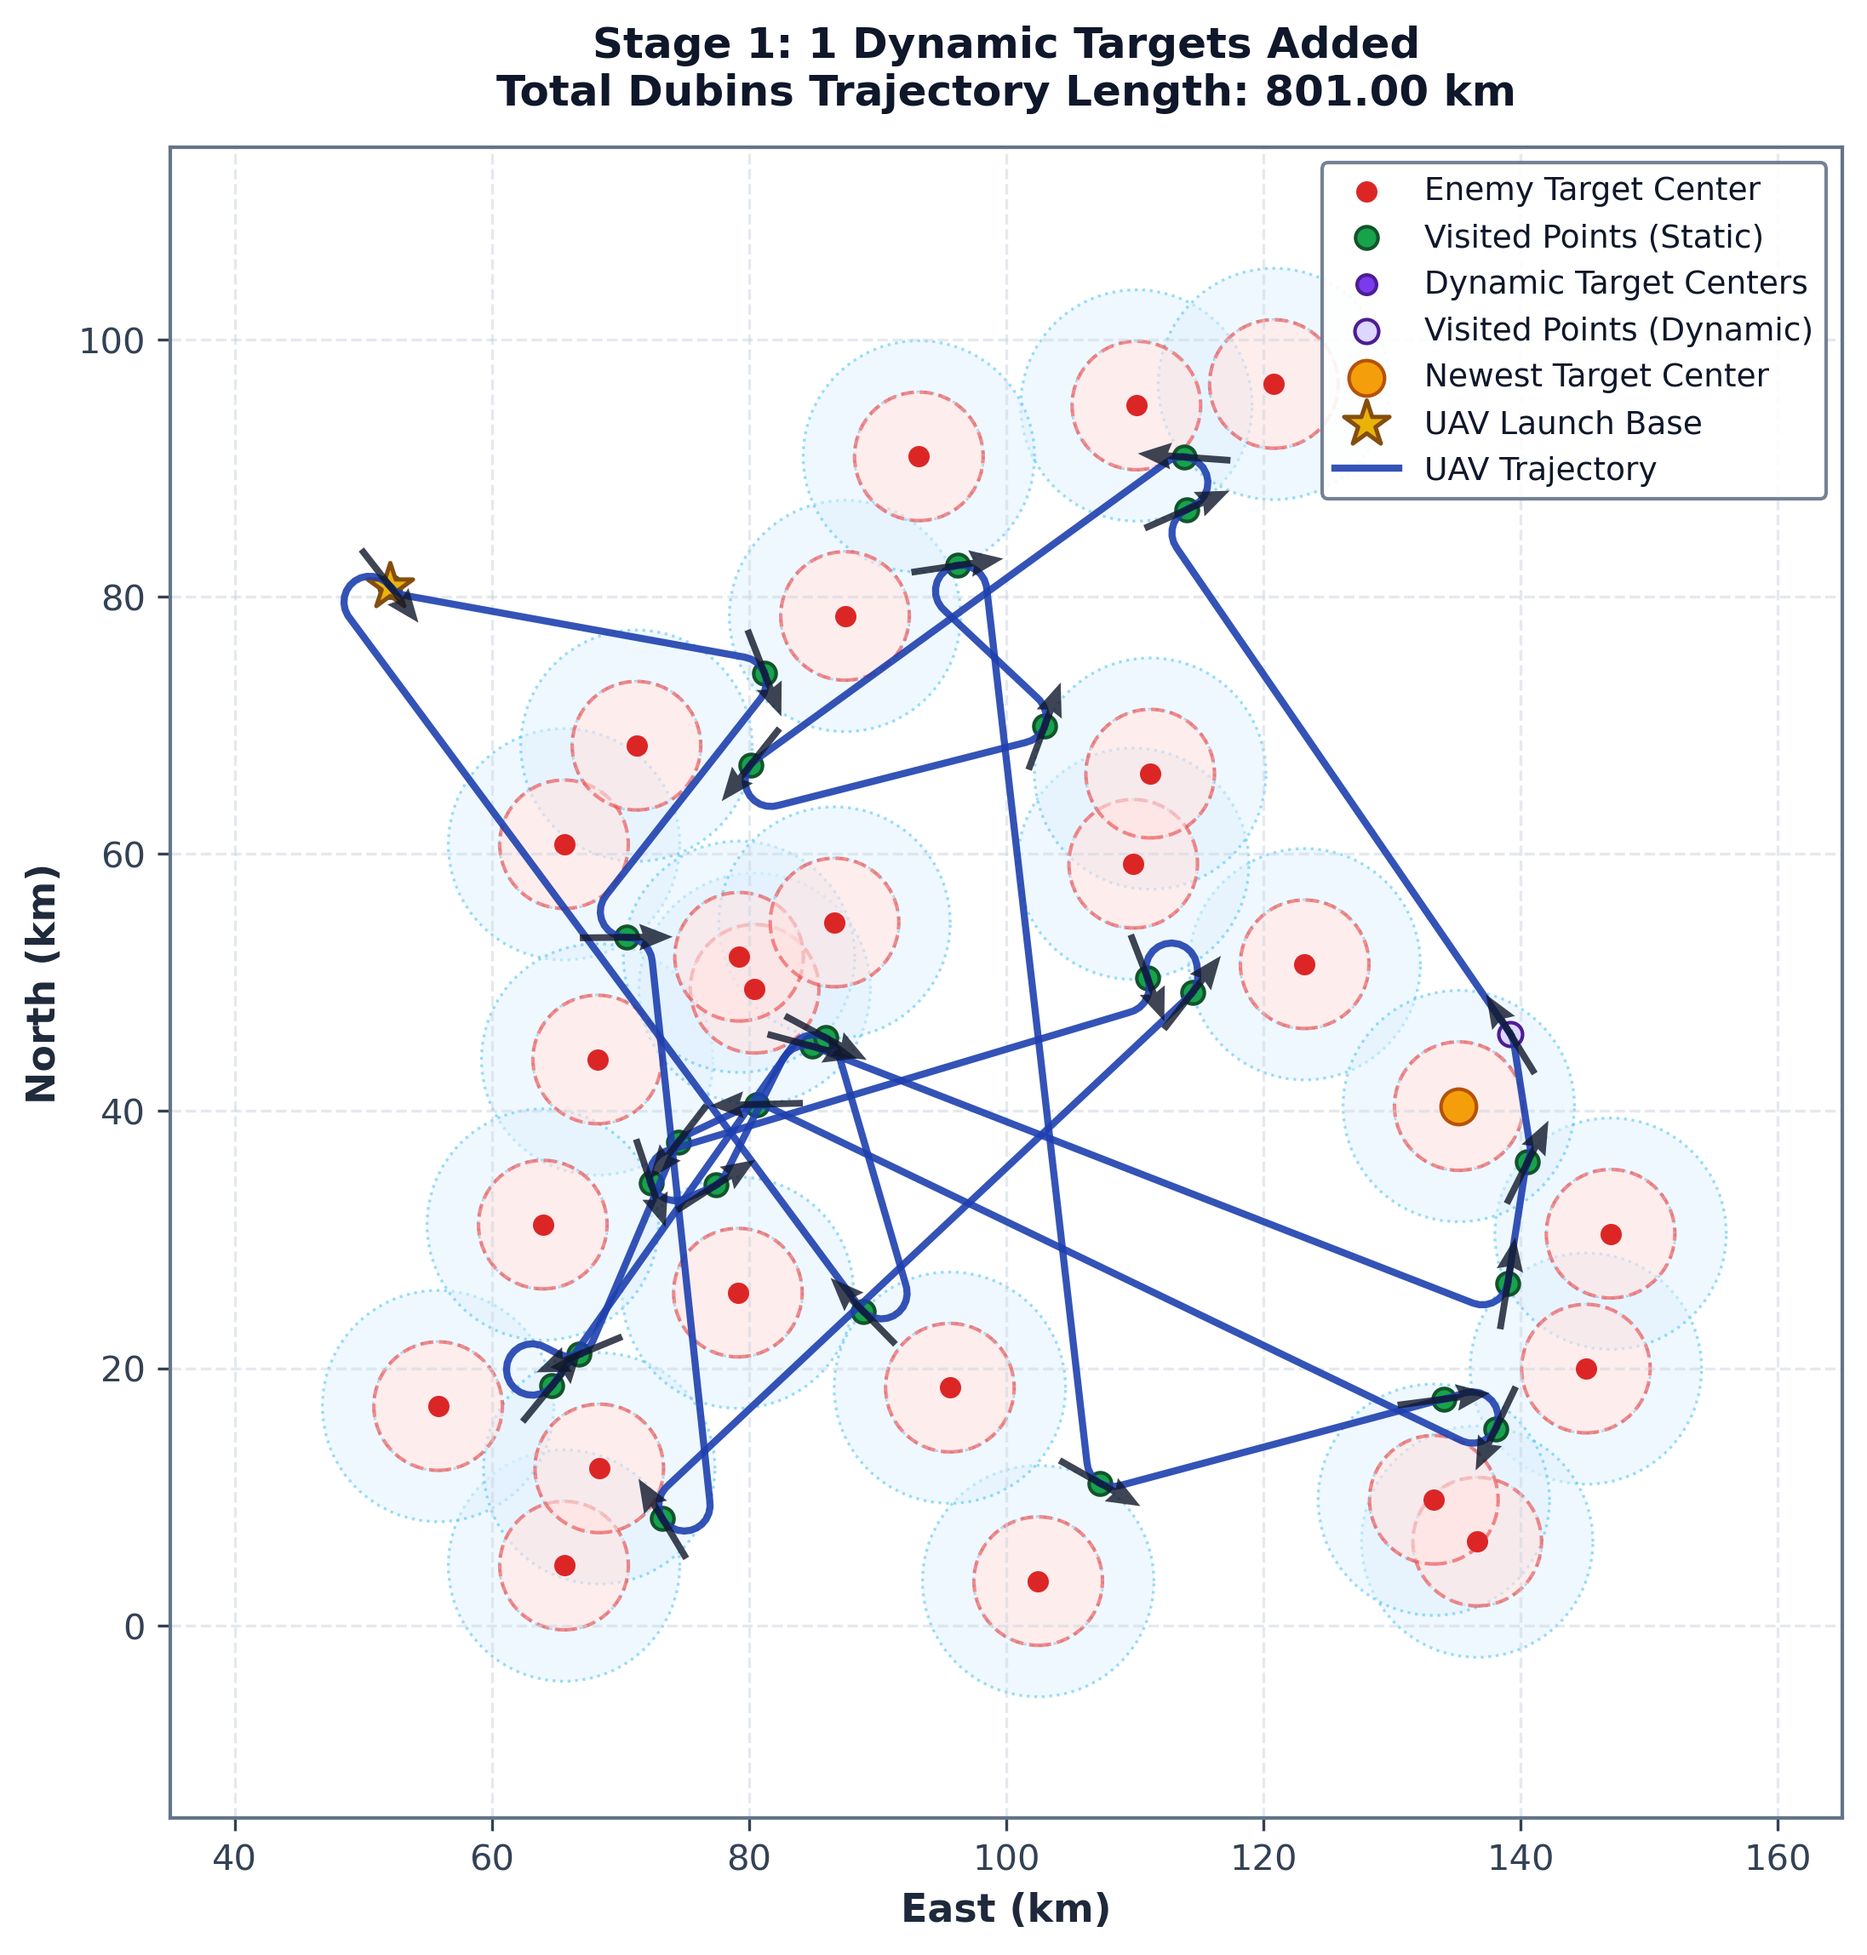
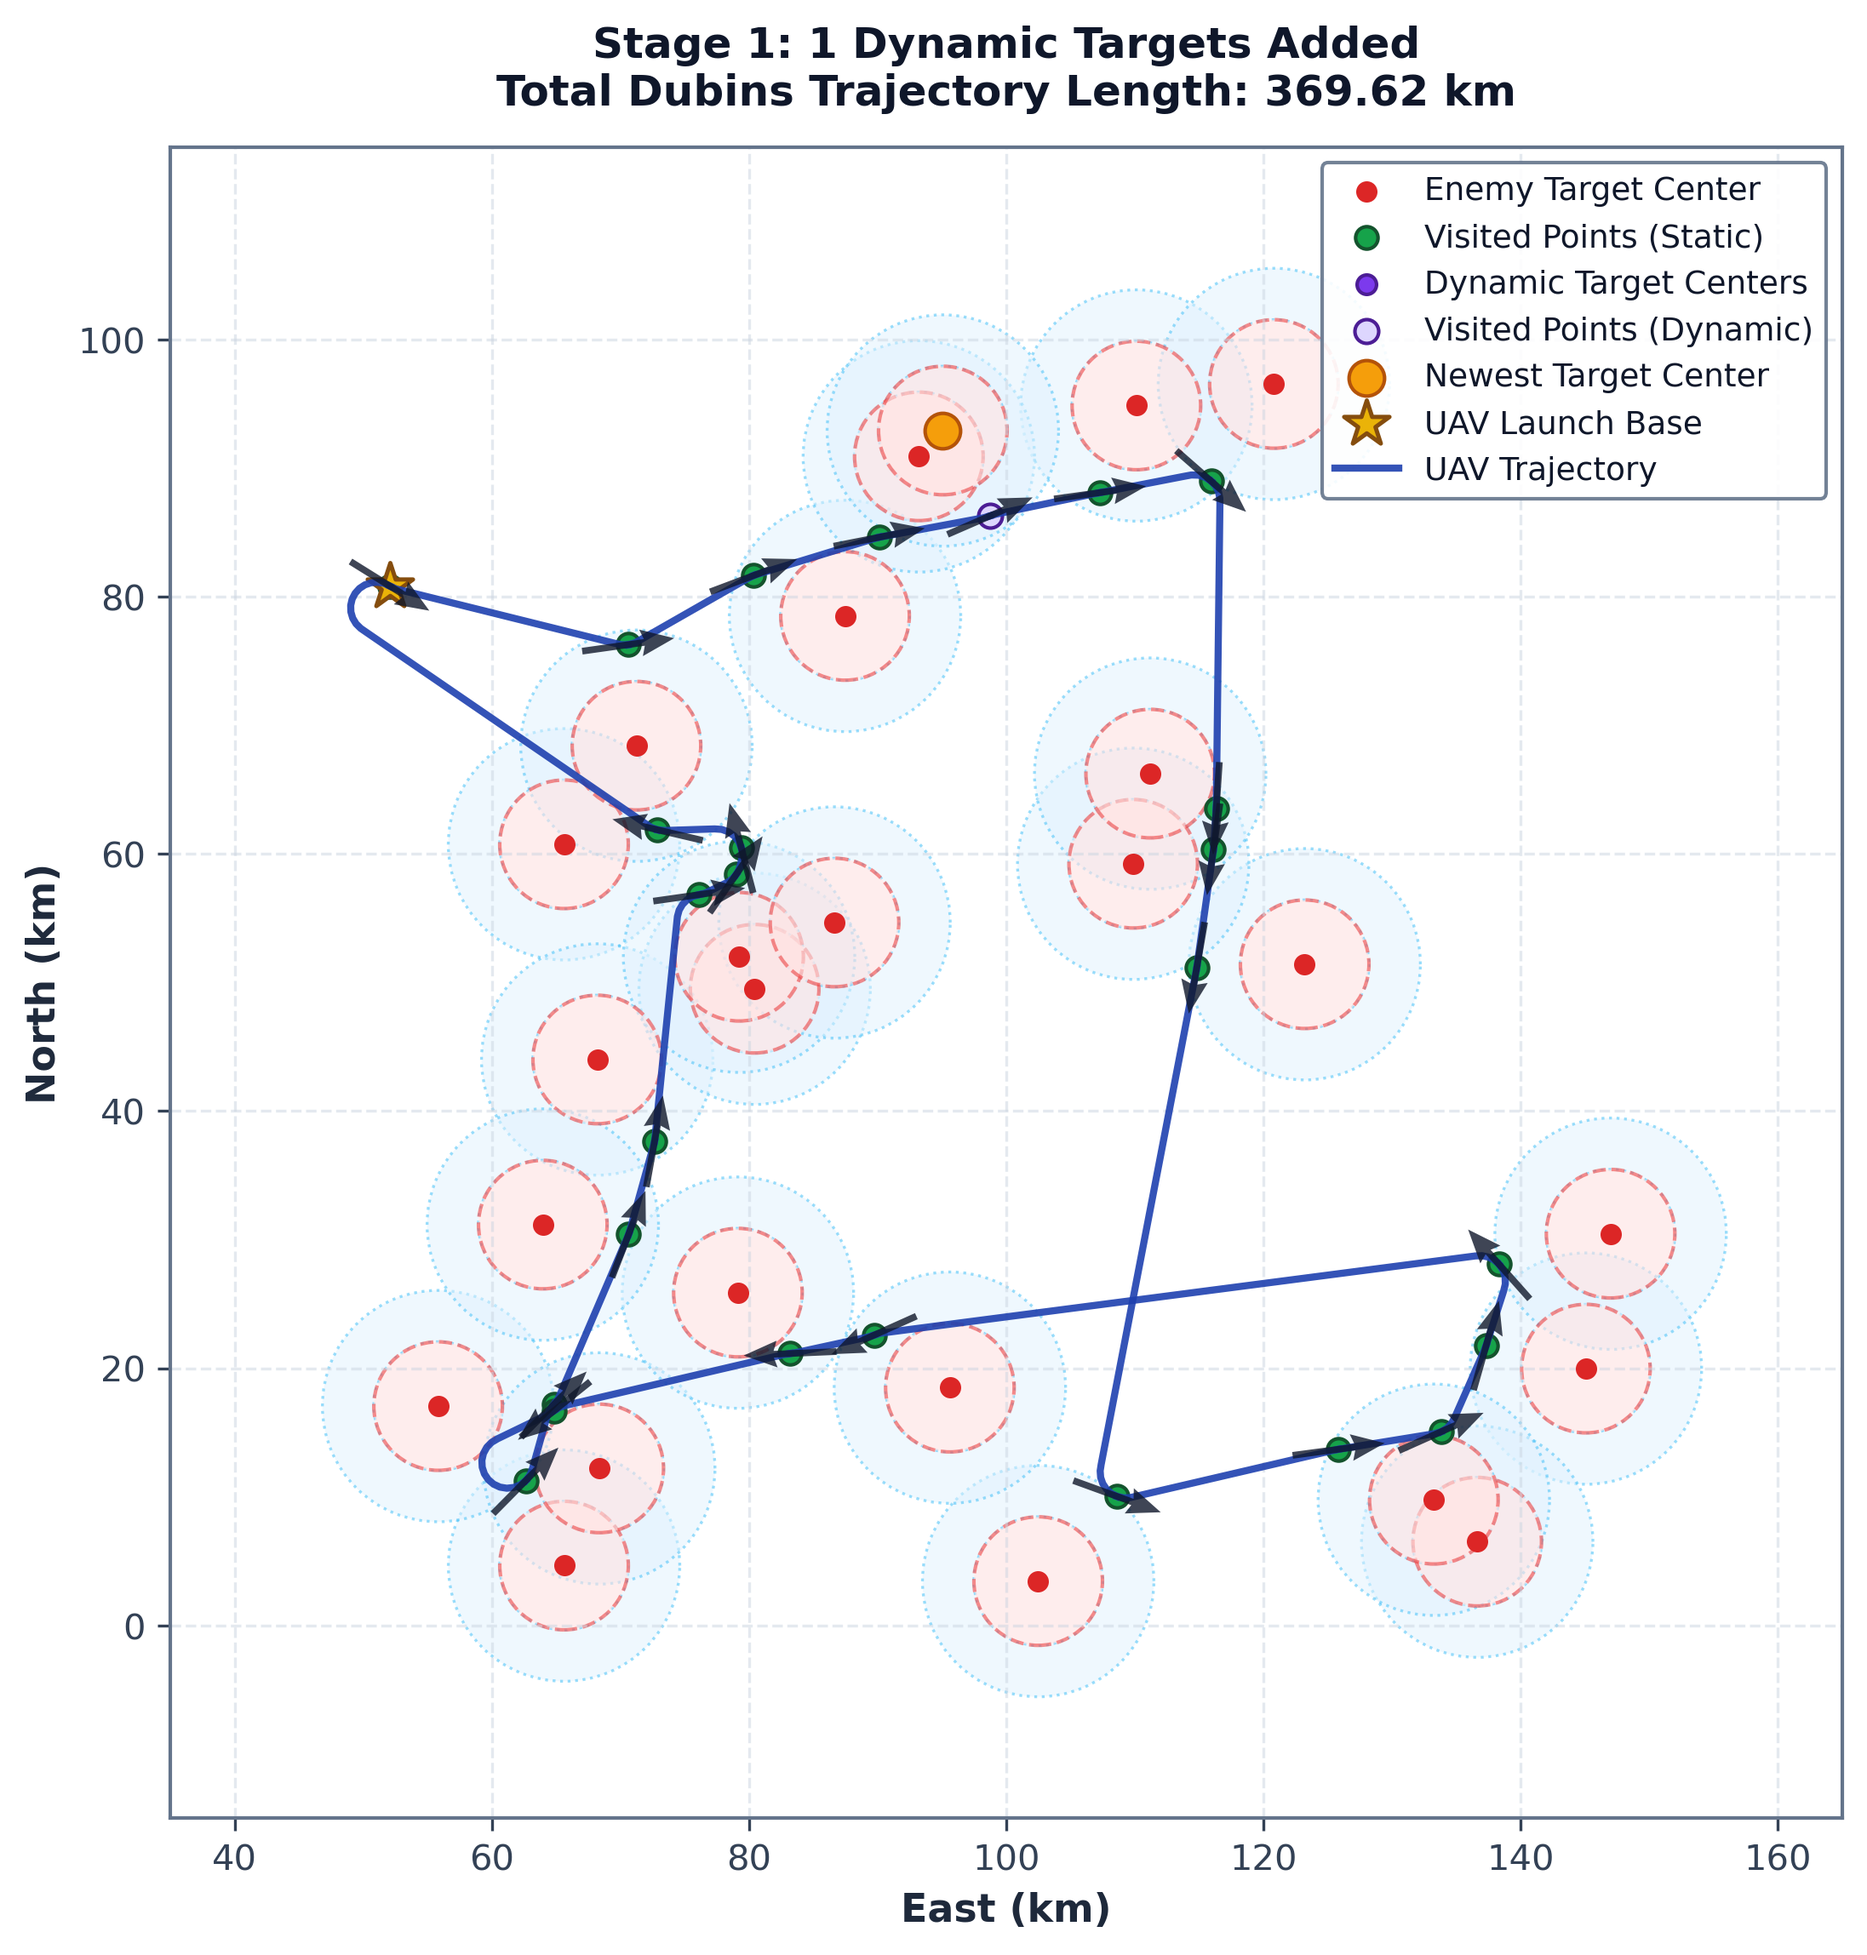
Feat: Add Euclidean NN + 2-opt initialization, reducing flight length from 910km to 343km

diff --git a/dtsp_uav/main_tspn.py b/dtsp_uav/main_tspn.py
@@ -7,6 +7,37 @@ from core.routing import Route
 from algorithms.simulated_annealing_tspn import SimulatedAnnealingTSPN
 from simulation.animator_tspn import AnimatorTSPN
 
+def build_initial_euclidean_tour(centers, start_idx):
+    """使用貪婪最近鄰 (Nearest Neighbor) + 2-opt 構建無自交的歐氏初始閉環"""
+    unvisited = set(range(len(centers)))
+    unvisited.remove(start_idx)
+    tour = [start_idx]
+    curr = start_idx
+    while unvisited:
+        next_node = min(unvisited, key=lambda idx: np.linalg.norm(centers[curr] - centers[idx]))
+        tour.append(next_node)
+        unvisited.remove(next_node)
+        curr = next_node
+    
+    # 執行快速 2-opt 解開歐氏交叉線
+    improved = True
+    n = len(tour)
+    while improved:
+        improved = False
+        for i in range(1, n - 1):
+            for j in range(i + 1, n):
+                a, b = tour[i - 1], tour[i]
+                c, d = tour[j], tour[(j + 1) % n]
+                d0 = np.linalg.norm(centers[a] - centers[b]) + np.linalg.norm(centers[c] - centers[d])
+                d1 = np.linalg.norm(centers[a] - centers[c]) + np.linalg.norm(centers[b] - centers[d])
+                if d1 < d0 - 1e-4:
+                    tour[i:j + 1] = tour[i:j + 1][::-1]
+                    improved = True
+                    break
+            if improved:
+                break
+    return tour
+
 def insert_new_center(route_indices, new_center_idx, centers):
     """
     使用最便宜插入啟發式 (Cheapest Insertion) 將新敵艦中心插入到現有路徑中。
@@ -64,10 +95,8 @@ def main():
     start_node_idx = env.get_start_node_index()
     print(f"UAV 起飛基地索引: {start_node_idx}，位置: {centers[start_node_idx]}")
 
-    # 建立初始閉環順序
-    initial_indices = list(range(len(centers)))
-    initial_indices.remove(start_node_idx)
-    route_indices = [start_node_idx] + initial_indices
+    # 建立高品質初始歐氏閉環順序 (消除初始交叉)
+    route_indices = build_initial_euclidean_tour(centers, start_node_idx)
     route = Route(route_indices)
 
     # 2. 初始路徑優化 (DTSPN + 避障)
